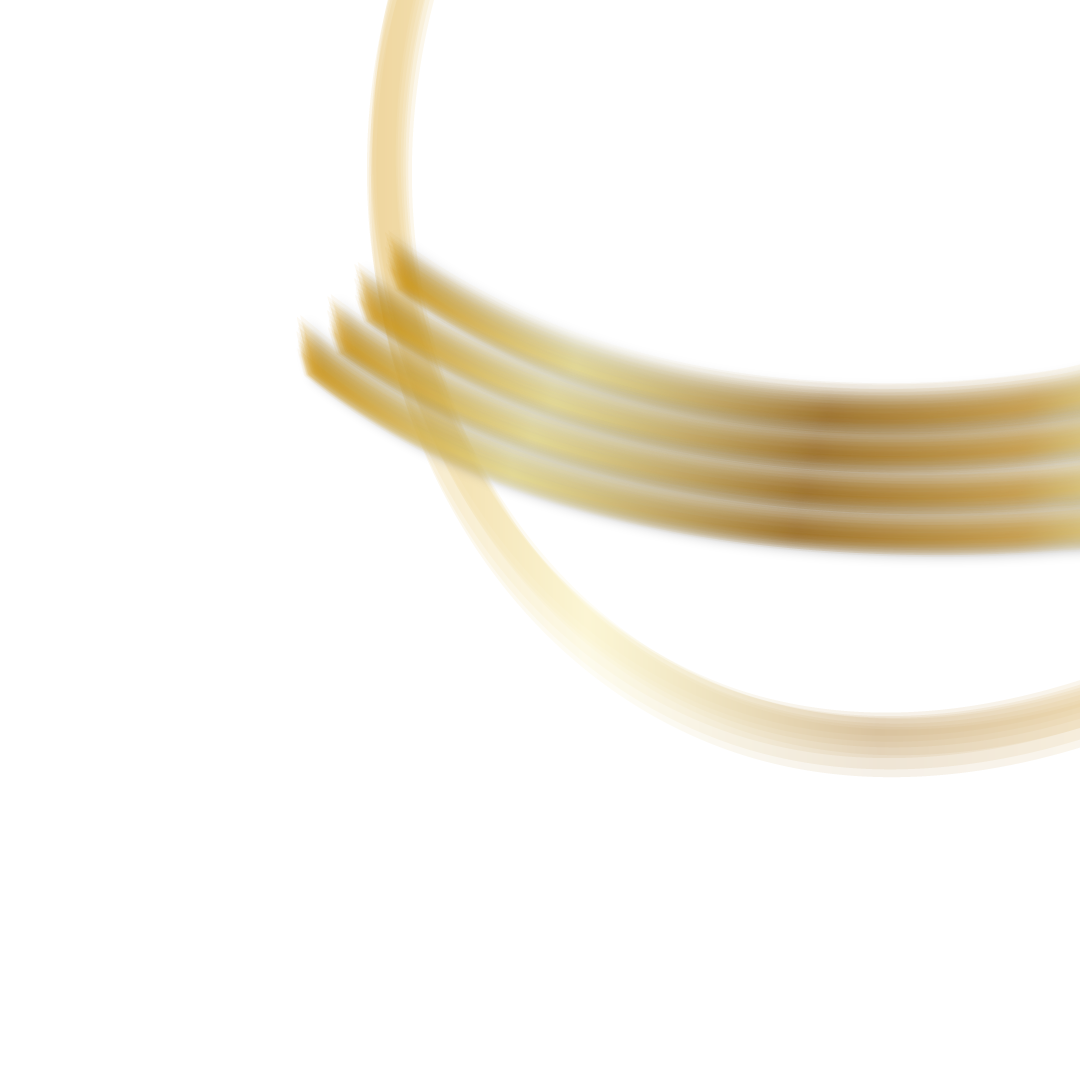
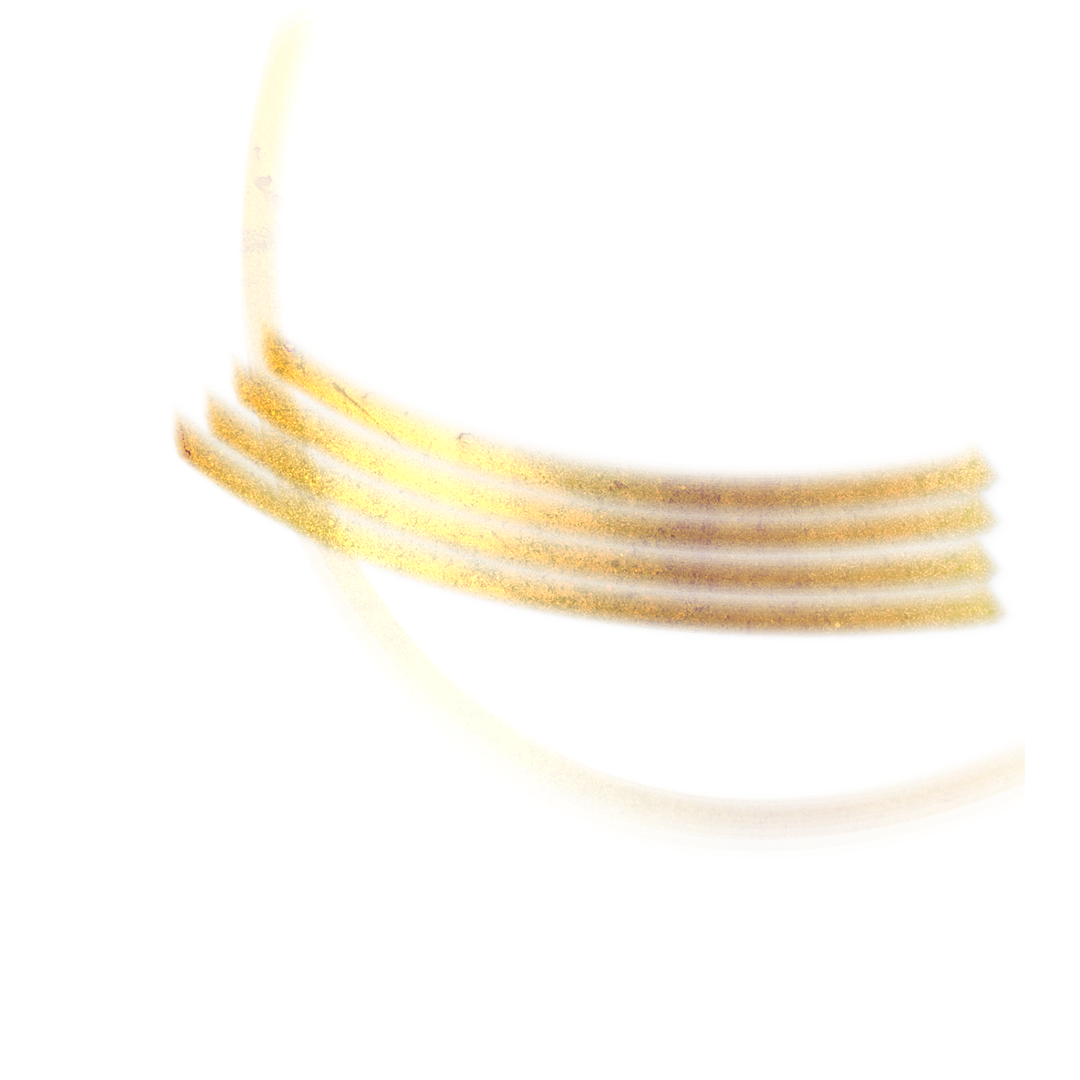
Se modifica la estetica visual, además se mejoran umbrales de tiempo, distribucion y velocidades de rotacion de los elementoss

Changed region(s): [[0.1528, 0.0, 1.0, 0.7944]]

diff --git a/sketch.js b/sketch.js
@@ -12,6 +12,7 @@ let imagenesSalpicadura2 = [];
 let mayas = [];
 let imagenesMayas = [];
 let ovalosDeColor = [];
+let tipoDeOvalo = null;
 let imagenesOvalosDeColoresFrios = [];
 let imagenesOvalosDeColoresCalidos = [];
 let facturas = [];
@@ -32,10 +33,7 @@ function setup () {
   temporizadorOvalosDeColor = new Temporizador(TIEMPO_RETARDO_ULTIMO_DIBUJO);
   temporizadorFacturas = new Temporizador(TIEMPO_RETARDO_ULTIMO_DIBUJO);
   temporizadorSalpicaduras = new Temporizador(TIEMPO_RETARDO_ULTIMO_DIBUJO);
-  cargarImagenesMayas();
-  cargarImagenesOvalosDeColor();
-  cargarImagenesFacturas();
-  cargarImagenesSalpicaduras();
+  cargarImagenes();
   backgroundImage = loadImage('data/background.png');
 
   temporizadorInactividad.onTimeout = () => {
@@ -44,6 +42,7 @@ function setup () {
     mayas = [];
     facturas = [];
     ovalosDeColor = [];
+    tipoDeOvalo = null;
   };
 
   temporizadorInactividad.iniciar();
@@ -51,8 +50,6 @@ function setup () {
   
 function draw () {
   background(backgroundImage, 255);
-  // background(0);
-  // mouse.registrarRecorrido();
 
   if (sonido.haySonido) {
     temporizadorInactividad.reiniciar();
@@ -68,13 +65,13 @@ function draw () {
     ovalosDeColor[i].dibujar();
   }  
   
+  for (let i = 0; i < facturas.length; i++) {
+    facturas[i].dibujar();
+  }
+  
   for (let i = 0; i < mayas.length; i++) {
     mayas[i].dibujar();
     mayas[i].actualizarRotacion();
-  }
-
-  for (let i = 0; i < facturas.length; i++) {
-    facturas[i].dibujar();
   }
   
   for (let i = 0; i < salpicaduras.length; i++) {
@@ -83,64 +80,65 @@ function draw () {
 
 }
 
-function cargarImagenesMayas(){
-  for (let i = 0; i < 4; i++) {
-    let nombre = 'data/mayas' + nf(i, 2) + '.png';
-    imagenesMayas[i] = loadImage(nombre);
+function cargarImagenes(){
+  for (let i = 0; i < 5; i++) {
+    let nombre = 'data/facturas' + nf(i, 2) + '.png';
+    imagenesFacturas[i] = loadImage(nombre);
   }
-}
 
-function cargarImagenesSalpicaduras(){
-  for (let i = 0; i < 32; i++) {
-    let nombre = 'data/salpicadura1' + nf(i, 2) + '.png';
-    imagenesSalpicadura1[i] = loadImage(nombre);
-  }
-  imagenesSalpicadura2[0] = loadImage('data/salpicadura200.png');
-}
-
-
-function cargarImagenesOvalosDeColor(){
   for (let i = 0; i < 3; i++) {
     let ovaloFrio = 'data/ovaloDeColorFrio' + nf(i, 2) + '.png';
     let ovaloCalido = 'data/ovaloDeColorCalido' + nf(i, 2) + '.png';
     imagenesOvalosDeColoresFrios[i] = loadImage(ovaloFrio);
     imagenesOvalosDeColoresCalidos[i] = loadImage(ovaloCalido);
   }
-}
 
-function cargarImagenesFacturas(){
-  for (let i = 0; i < 5; i++) {
-    let nombre = 'data/facturas' + nf(i, 2) + '.png';
-    imagenesFacturas[i] = loadImage(nombre);
+  for (let i = 0; i < 32; i++) {
+    let nombre = 'data/salpicadura1' + nf(i, 2) + '.png';
+    imagenesSalpicadura1[i] = loadImage(nombre);
+  }
+  imagenesSalpicadura2[0] = loadImage('data/salpicadura200.png');
+
+  for (let i = 0; i < 4; i++) {
+    let nombre = 'data/mayas' + nf(i, 2) + '.png';
+    imagenesMayas[i] = loadImage(nombre);
   }
 }
 
 function crearObra() {
-
   if (mayas.length < 4) {
     if (sonido.haySonido && !temporizadorMayas.isCounting) {
-      // console.log("Finalizo un sonido");
-      mayas.push(new Maya(random(imagenesMayas)));
-      temporizadorMayas.iniciar();
+        let nuevaMaya = new Maya(random(imagenesMayas));
+        if (!nuevaMaya.haySuperposicion()) {
+            mayas.push(nuevaMaya);
+            temporizadorMayas.iniciar();
+        }
     }
   }
 
   if (ovalosDeColor.length < 3) {
-    if (sonido.duration == 'LARGO' && sonido.tone == 'GRAVE' && !temporizadorOvalosDeColor.isCounting) {
-      if(sonido.volume == 'ALTO'){
-          ovalosDeColor.push(new Ovalo(random(imagenesOvalosDeColoresCalidos)));
-          console.log("dibujo uno calido");
-      }else if (sonido.volume == 'BAJO'){
-          ovalosDeColor.push(new Ovalo(random(imagenesOvalosDeColoresFrios)));
-          console.log("dibujo uno frio");
+    if (sonido.duration == 'LARGO' && sonido.tone == 'GRAVE' && !temporizadorOvalosDeColor.isCounting) { //CAMBIAR A LARGO
+
+      if(tipoDeOvalo == null){
+        tipoDeOvalo = sonido.volume == 'ALTO' ? 'CALIDO' : 'FRIO';
       }
-      temporizadorOvalosDeColor.iniciar();
+
+      let nuevoOvalo;
+      if(tipoDeOvalo == 'CALIDO'){
+        nuevoOvalo = new Ovalo(random(imagenesOvalosDeColoresCalidos)); 
+      }else{
+        nuevoOvalo = new Ovalo(random(imagenesOvalosDeColoresFrios));
+      }
+
+      if (!nuevoOvalo.haySuperposicion()){
+        ovalosDeColor.push(nuevoOvalo);
+        temporizadorOvalosDeColor.iniciar();  
+      }
     }
   }
 
-  if (facturas.length < 3) {
+  if (facturas.length < 2) {
     if (sonido.duration == 'LARGO' && sonido.tone == 'AGUDO' && !temporizadorFacturas.isCounting) {
-      // console.log("Finalizo, es largo y agudo");
       facturas.push(new Factura(random(imagenesFacturas)));
       temporizadorFacturas.iniciar();
     }
@@ -160,6 +158,13 @@ function crearObra() {
       mayas[i].cambiarDireccion();
     }
   }
+}
 
+function seSuperponen(figura1, figura2) {
+  let distX = abs(figura1.x - figura2.x);
+  let distY = abs(figura1.y - figura2.y);
+  let distancia = sqrt(distX * distX + distY * distY);
+
+  return distancia < (figura1.tamanio / 2 + figura2.tamanio / 2);
 }
 

diff --git a/Ovalo.js b/Ovalo.js
@@ -1,24 +1,53 @@
 class Ovalo {
-
     constructor(imagen) {
-        this.tamanio = random(100, 500);
+        this.tamanio = this.calcularTamanio();
+        console.log(this.tamanio);
         this.imagen = imagen;
-        this.x = random(0, width);
-        this.y = this.determinarMitad();
-    }
-
-    dibujar() {
-        image(this.imagen, 0, 0, this.tamanio, this.tamanio);
-    }
-
-    determinarMitad() {
-        let yPos;
-        if (dibujarEnMitadSuperior) {
-            yPos = floor(random(0, height / 2 - this.tamanio)); // Mitad superior, asegurando visibilidad
-        } else {
-            yPos = floor(random(height / 2, height - this.tamanio)); // Mitad inferior, asegurando visibilidad
+        // this.dibujarEnMitadSuperior = random() > 0.5; // Decisión aleatoria de dibujar en mitad superior o inferior
+        let intentos = 0;
+        do {
+            this.x = random(random(-20, width / 2 - 100), random(width / 2 + 200, width + 20)); // Posición aleatoria en X
+            this.y = random(random(-20, height / 2 - 150), random(height / 2 + 150, height + 20)); // Posición en Y basada en la mitad superior o inferior
+            intentos++;
+        } while (this.haySuperposicion() && intentos < 10000); // Evitar bucles infinitos
+        if (intentos >= 10000) {
+            console.log('No se encontró una posición adecuada para el óvalo después de 1000 intentos.');
         }
-        dibujarEnMitadSuperior = !dibujarEnMitadSuperior; // Alternar mitad
-        return yPos;
     }
+
+    calcularTamanio(){
+        let tamanio;
+        if(ovalosDeColor.length > 0){
+            tamanio = random(100, 300);
+        }else{
+            tamanio = random(400, 450);
+        }
+        return tamanio;
+    }
+
+    haySuperposicion() {
+        let haySuperposicion = false;
+        for (let i = 0; i < ovalosDeColor.length; i++) {
+            if (seSuperponen(this, ovalosDeColor[i]) && !haySuperposicion) {
+                haySuperposicion = true;
+            }
+        }
+        return haySuperposicion;
+    }
+
+    // determinarY() {
+    //     if (this.dibujarEnMitadSuperior) {
+    //         return random(-5, height / 2); // Mitad superior
+    //     } else {
+    //         return random(height / 2 + 20, height - this.tamanio); // Mitad inferior
+    //     }
+    // }
+    
+    dibujar() {
+        push()
+        imageMode(CENTER);
+        image(this.imagen, this.x, this.y, this.tamanio, this.tamanio);
+        pop()
+    }
+    
 }

diff --git a/Maya.js b/Maya.js
@@ -1,13 +1,30 @@
 class Maya {
-
     constructor(imagen) {
-        this.tamanio = random(100, 250);
-        this.opacidad = 255; // Inicializa la opacidad al máximo
+        this.tamanio = random(290, 310);
+        this.opacidad = 255;
         this.angulo = 0;
-        this.rotacion = 0.01;
+        this.rotacion = random(0.001, 0.01) * (random() > 0.5 ? 1 : -1);
         this.imagen = imagen;
-        this.x = random(0, width);
-        this.y = random(0, height);
+        let intentos = 0;
+        do {
+            this.centroX = random(random(-20, width / 2 - 100), random(width / 2 + 200, width + 20));
+            this.centroY = random(random(-20, height / 2 - 150), random(height / 2 + 150, height + 20));
+            this.radio = random(10, 30);
+            this.anguloOrbital = random(TWO_PI);
+            this.velocidadOrbital = random(0.005, 0.02) * (random() > 0.5 ? 1 : -1);
+            this.x = this.centroX + cos(this.anguloOrbital) * this.radio;
+            this.y = this.centroY + sin(this.anguloOrbital) * this.radio;
+            intentos++;
+        } while (this.haySuperposicion() && intentos < 100); // Evitar bucles infinitos
+    }
+
+    haySuperposicion() {
+        for (let i = 0; i < mayas.length; i++) {
+            if (seSuperponen(this, mayas[i])) {
+                return true;
+            }
+        }
+        return false;
     }
 
     dibujar() {
@@ -15,21 +32,21 @@ class Maya {
         imageMode(CENTER);
         translate(this.x, this.y);
         rotate(this.angulo);
-        image(
-            this.imagen, 
-            0,
-            0,
-            this.tamanio, 
-            this.tamanio
-        );
+        image(this.imagen, 0, 0, this.tamanio, this.tamanio);
         pop();
     }
 
-    actualizarRotacion(){
-        this.angulo+= this.rotacion;
+    actualizarRotacion() {
+        this.angulo += this.rotacion;
+        this.anguloOrbital += this.velocidadOrbital;
+
+        // Actualiza la posición x, y según la órbita
+        this.x = this.centroX + cos(this.anguloOrbital) * this.radio;
+        this.y = this.centroY + sin(this.anguloOrbital) * this.radio;
     }
 
     cambiarDireccion() {
-        this.rotacion *= -1;  // Cambia el signo de la velocidad de rotación
+        this.rotacion *= -1; // Cambia el signo de la velocidad de rotación
+        this.velocidadOrbital *= -1; // Cambia el signo de la velocidad orbital
     }
 }

diff --git a/Sonido.js b/Sonido.js
@@ -15,9 +15,9 @@ class Sonido {
         this.mic = new p5.AudioIn();            // objeto del micrófono
         userStartAudio();
         this.duracionSonidoSegundos = 0;        // variable para almacenar la duración del sonido en segundos
-        this.durationThreshold1 = 1;
-        this.durationThreshold2 = 3;
-        this.pitchThreshold = 0.11;
+        this.durationThreshold1 = 0.5;
+        this.durationThreshold2 = 1;
+        this.pitchThreshold = 0.10;
         this.duration = '';
         this.tone = '';
         this.clap = false;
@@ -73,9 +73,11 @@ class Sonido {
             this.calculateDuration();
             this.calculateVolumeLevel();
             this.clap = this.duration == 'APLAUSO' && this.maxAmplitude >= 0.22
+            console.log('------------------------------------------------------');
             console.log("Duracion: " + this.duration);
             console.log("Tono: " + this.tone);
-            console.log("Amplitud: " + this.maxAmplitude);
+            console.log("Amplitud: " + this.volume);
+            console.log('------------------------------------------------------');
             this.maxAmplitude = -1;
         }
 
@@ -91,7 +93,7 @@ class Sonido {
     }
 
     calculateDuration(){
-        if(this.duracionSonidoSegundos < this.durationThreshold1 - 0.5){
+        if(this.duracionSonidoSegundos < this.durationThreshold1){
             this.duration = 'APLAUSO';
         }else if(this.duracionSonidoSegundos > this.durationThreshold1 && this.duracionSonidoSegundos < this.durationThreshold2){
             this.duration = 'CORTO';

diff --git a/Factura.js b/Factura.js
@@ -3,8 +3,8 @@ class Factura {
     constructor(imagen) {
         this.tamanio = random(300, 800);
         this.imagen = imagen;
-        this.x = random([random(0, width / 2 - 100), random(width / 2 + 100, width)]);
-        this.y = random(0, height - 200);
+        this.x = random([random(-50, width / 2 - 100), random(width / 2, width-100)]);
+        this.y = random(-20, height - 200);
     }
 
     dibujar() {

diff --git a/Salpicadura.js b/Salpicadura.js
@@ -1,5 +1,4 @@
 let dibujarEnMitadSuperior = true; // Variable global para controlar la mitad
-
 class Salpicadura {
 
     constructor(imagenes) {
